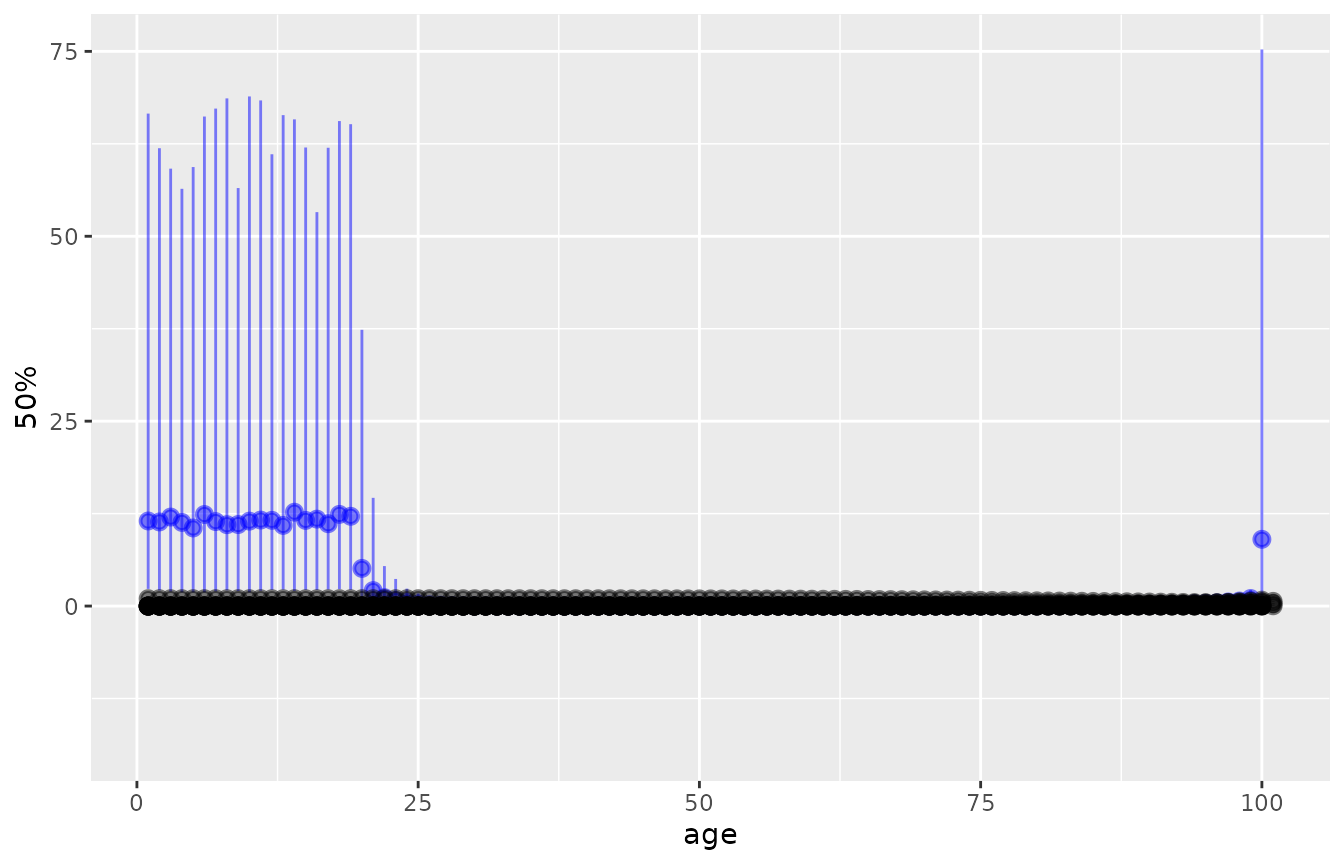
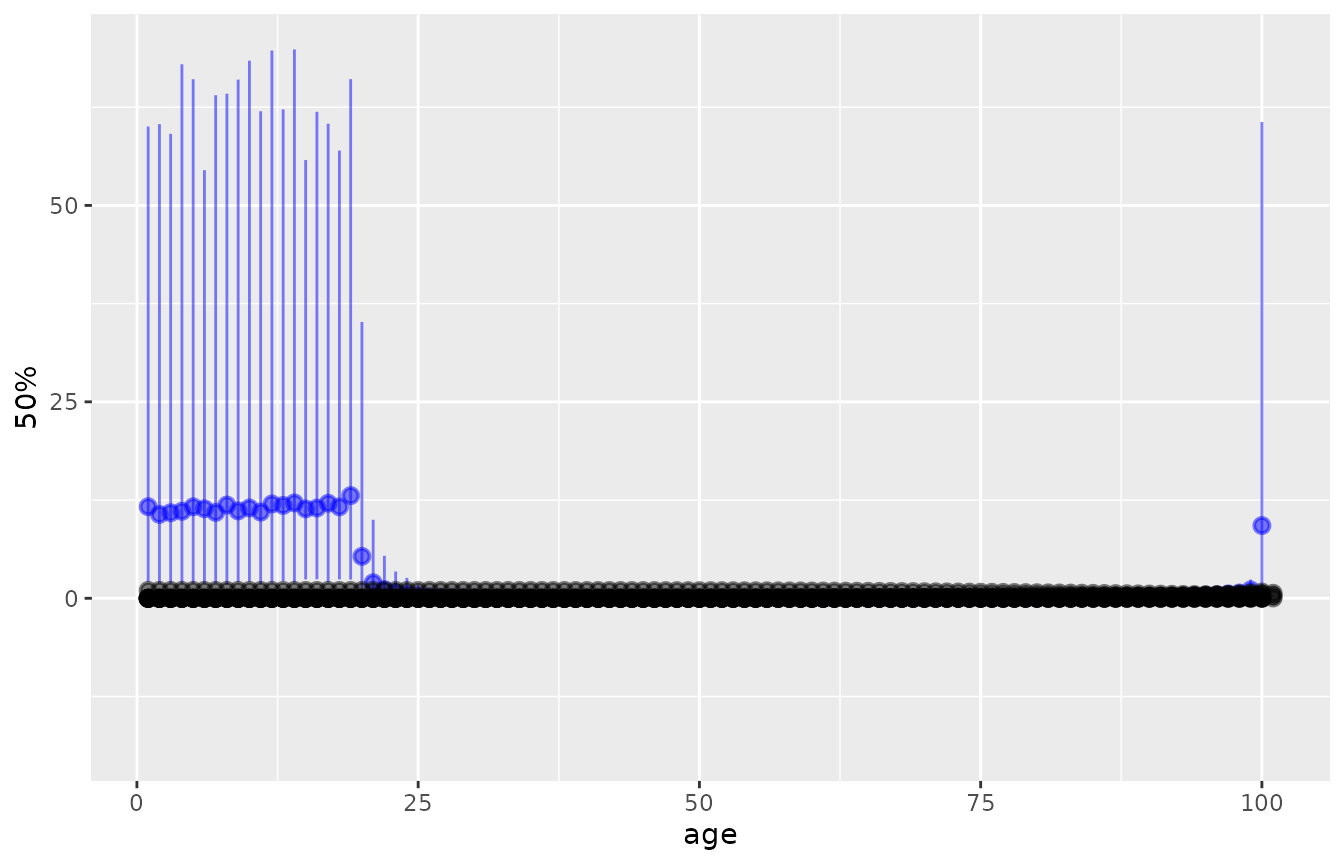
Built site for disbayes: 0.1@6cbedf2

diff --git a/articles/disbayes.html b/articles/disbayes.html
@@ -83,8 +83,6 @@
 
     
     
-<div class="sourceCode" id="cb1"><pre class="downlit sourceCode r">
-<code class="sourceCode R"><span class="fu">knitr</span><span class="fu">::</span><span class="va"><a href="https://rdrr.io/pkg/knitr/man/opts_chunk.html">opts_chunk</a></span><span class="op">$</span><span class="fu">set</span><span class="op">(</span>fig.width<span class="op">=</span><span class="fl">7</span><span class="op">)</span></code></pre></div>
 <p>This document illustrates how case fatality can be estimated given incidence and mortality, using Bayesian modelling.</p>
 <p>This also serves to illustrate a general approach for estimating quantities describing disease epidemiology, based on indirect / incomplete data or multiple data sources.</p>
 <p>The method is implemented in the R package <code>disbayes</code>, and could easily be adapted to novel situations.</p>
@@ -149,7 +147,7 @@
 <li><p><code>prev_num</code>,<code>prev_denom</code>: estimates of prevalence by age</p></li>
 </ul>
 <p>and we wish to estimate case fatality by age, given these inputs. A selection of rows from the full data frame are shown here. We select only the data from one area and gender (Bristol, male) for this illustration.</p>
-<div class="sourceCode" id="cb2"><pre class="downlit sourceCode r">
+<div class="sourceCode" id="cb1"><pre class="downlit sourceCode r">
 <code class="sourceCode R"><span class="kw"><a href="https://rdrr.io/r/base/library.html">library</a></span><span class="op">(</span><span class="va"><a href="https://github.com/chjackson/disbayes">disbayes</a></span><span class="op">)</span>
 <span class="kw"><a href="https://rdrr.io/r/base/library.html">library</a></span><span class="op">(</span><span class="va"><a href="https://dplyr.tidyverse.org">dplyr</a></span>,quietly <span class="op">=</span> <span class="cn">TRUE</span><span class="op">)</span>
 <span class="va">ihdbristol</span> <span class="op">&lt;-</span> <span class="va">ihdengland</span> <span class="op">%&gt;%</span> <span class="fu"><a href="https://dplyr.tidyverse.org/reference/filter.html">filter</a></span><span class="op">(</span><span class="va">area</span><span class="op">==</span><span class="st">"Bristol"</span>, <span class="va">gender</span><span class="op">==</span><span class="st">"Male"</span><span class="op">)</span>
@@ -171,7 +169,7 @@
 </ul>
 <p>The published estimates and uncertainty interval are then used to derive the implicit denominator and numerator, using the method described in the next subsection.</p>
 <p>Then secondly, estimates for five-year age groups were converted to one-year groups. Most simply this could be done by assuming the counts are equal for each year of age, but a more sophisticated method was used based on “temporal disaggregation” using one of the methods implemented by Sax and Steiner in the <code>tempdisagg</code> R package (<span class="citation">Sax and Steiner (2013)</span>). This ensures that the disaggregated counts vary smoothly with age, while preserving the aggregate totals. Thirdly, counts from smaller geographical areas were simply added up to obtain the corresponding counts for the larger areas (English city regions) required in this analysis.</p>
-<div class="sourceCode" id="cb4"><pre class="downlit sourceCode r">
+<div class="sourceCode" id="cb3"><pre class="downlit sourceCode r">
 <code class="sourceCode R"><span class="va">ihdbristol</span><span class="op">[</span><span class="va">ihdbristol</span><span class="op">$</span><span class="va">age</span> <span class="op">%in%</span> <span class="fl">50</span><span class="op">:</span><span class="fl">55</span>, <span class="op">]</span></code></pre></div>
 <pre><code>## # A tibble: 6 × 9
 ##     age gender area    inc_num inc_denom prev_num prev_denom mort_num mort_denom
@@ -187,7 +185,7 @@
 <h2 class="hasAnchor">
 <a href="#smoothly-disaggregating-data-from-age-groups-to-years-of-age" class="anchor"></a>Smoothly disaggregating data from age groups to years of age</h2>
 <p>As an aside, here we show how the temporal disaggregation procedure is done in R. We have a disease count outcome that is measured for 5-year age groups, as in the following data frame.</p>
-<div class="sourceCode" id="cb6"><pre class="downlit sourceCode r">
+<div class="sourceCode" id="cb5"><pre class="downlit sourceCode r">
 <code class="sourceCode R"><span class="va">dat</span> <span class="op">&lt;-</span> <span class="fu"><a href="https://rdrr.io/r/base/data.frame.html">data.frame</a></span><span class="op">(</span>agefrom<span class="op">=</span><span class="fu"><a href="https://rdrr.io/r/base/seq.html">seq</a></span><span class="op">(</span><span class="fl">0</span>,<span class="fl">20</span>,<span class="fl">5</span><span class="op">)</span>, ageto<span class="op">=</span><span class="fu"><a href="https://rdrr.io/r/base/seq.html">seq</a></span><span class="op">(</span><span class="fl">4</span>,<span class="fl">24</span>,<span class="fl">5</span><span class="op">)</span>,
                   measure<span class="op">=</span><span class="fu"><a href="https://rdrr.io/r/base/c.html">c</a></span><span class="op">(</span><span class="fl">15</span>,<span class="fl">20</span>,<span class="fl">24</span>,<span class="fl">35</span>,<span class="fl">29</span><span class="op">)</span><span class="op">)</span>
 <span class="va">dat</span></code></pre></div>
@@ -198,7 +196,7 @@
 ## 4      15    19      35
 ## 5      20    24      29</code></pre>
 <p>The following code shows how to produce a smoothly disaggregated version of this count, and compares the smooth disaggregation to a crude disaggregation where the 5-year counts are simply divided by 5 to estimate one-year counts. We can check that the smoothly-disaggregated measures add up to the original data that were provided for the 5-year age groups.</p>
-<div class="sourceCode" id="cb8"><pre class="downlit sourceCode r">
+<div class="sourceCode" id="cb7"><pre class="downlit sourceCode r">
 <code class="sourceCode R"><span class="kw">if</span> <span class="op">(</span><span class="fu"><a href="https://rdrr.io/r/base/ns-load.html">requireNamespace</a></span><span class="op">(</span><span class="st">"tempdisagg"</span><span class="op">)</span><span class="op">)</span> <span class="op">{</span> 
    <span class="va">disagg_crude</span> <span class="op">&lt;-</span> <span class="fu"><a href="https://rdrr.io/r/base/rep.html">rep</a></span><span class="op">(</span><span class="va">dat</span><span class="op">$</span><span class="va">measure</span><span class="op">/</span><span class="fl">5</span>, each<span class="op">=</span><span class="fl">5</span><span class="op">)</span>
    <span class="va">disagg_smooth</span> <span class="op">&lt;-</span> <span class="fu"><a href="https://rdrr.io/r/stats/predict.html">predict</a></span><span class="op">(</span><span class="fu">tempdisagg</span><span class="fu">::</span><span class="fu"><a href="https://rdrr.io/pkg/tempdisagg/man/td.html">td</a></span><span class="op">(</span><span class="va">dat</span><span class="op">$</span><span class="va">measure</span> <span class="op">~</span> <span class="fl">1</span>, to<span class="op">=</span><span class="fl">5</span>, method<span class="op">=</span><span class="st">"fast"</span><span class="op">)</span><span class="op">)</span>
@@ -278,7 +276,7 @@
 <h2 class="hasAnchor">
 <a href="#running-disbayes-optimisation-method" class="anchor"></a>Running <code>disbayes</code>: optimisation method</h2>
 <p>The following call to the <code>disbayes</code> function is then made to fit the model to the <code>ihdbristol</code> data. The argument <code>eqage=40</code> defines an assumption that case fatality is constant for all ages below 40.</p>
-<div class="sourceCode" id="cb11"><pre class="downlit sourceCode r">
+<div class="sourceCode" id="cb10"><pre class="downlit sourceCode r">
 <code class="sourceCode R"><span class="va">dbres</span> <span class="op">&lt;-</span> <span class="fu"><a href="../reference/disbayes.html">disbayes</a></span><span class="op">(</span>dat <span class="op">=</span> <span class="va">ihdbristol</span>, age <span class="op">=</span> <span class="st">"age"</span>,
                  inc_num <span class="op">=</span> <span class="st">"inc_num"</span>, inc_denom <span class="op">=</span> <span class="st">"inc_denom"</span>, 
                  prev_num <span class="op">=</span> <span class="st">"prev_num"</span>, prev_denom <span class="op">=</span> <span class="st">"prev_denom"</span>,
@@ -286,7 +284,7 @@
                  inc_model<span class="op">=</span><span class="st">"indep"</span>,
                  eqage <span class="op">=</span> <span class="fl">40</span><span class="op">)</span></code></pre></div>
 <p>For comparison, we also fit an “unsmoothed” version of this model where the age-specific case fatality rates have independent priors, rather than being related through a spline function.</p>
-<div class="sourceCode" id="cb12"><pre class="downlit sourceCode r">
+<div class="sourceCode" id="cb11"><pre class="downlit sourceCode r">
 <code class="sourceCode R"><span class="va">dbresu</span> <span class="op">&lt;-</span> <span class="fu"><a href="../reference/disbayes.html">disbayes</a></span><span class="op">(</span>dat <span class="op">=</span> <span class="va">ihdbristol</span>, age <span class="op">=</span> <span class="st">"age"</span>,
                  inc_num <span class="op">=</span> <span class="st">"inc_num"</span>, inc_denom <span class="op">=</span> <span class="st">"inc_denom"</span>, 
                  prev_num <span class="op">=</span> <span class="st">"prev_num"</span>, prev_denom <span class="op">=</span> <span class="st">"prev_denom"</span>,
@@ -299,7 +297,7 @@
 <h2 class="hasAnchor">
 <a href="#running-disbayes-mcmc-method" class="anchor"></a>Running <code>disbayes</code>: MCMC method</h2>
 <p>If more accurate credible intervals are desired, then MCMC sampling can be used instead by setting <code>method="mcmc"</code>, as follows. This is more computationally intensive, typically taking a few minutes per fit.</p>
-<div class="sourceCode" id="cb13"><pre class="downlit sourceCode r">
+<div class="sourceCode" id="cb12"><pre class="downlit sourceCode r">
 <code class="sourceCode R"><span class="fu"><a href="https://rdrr.io/r/base/options.html">options</a></span><span class="op">(</span>mc.cores <span class="op">=</span> <span class="fu">parallel</span><span class="fu">::</span><span class="fu"><a href="https://rdrr.io/r/parallel/detectCores.html">detectCores</a></span><span class="op">(</span><span class="op">)</span><span class="op">)</span>
 <span class="va">dbresm</span> <span class="op">&lt;-</span> <span class="fu"><a href="../reference/disbayes.html">disbayes</a></span><span class="op">(</span>dat <span class="op">=</span> <span class="va">ihdbristol</span>, age <span class="op">=</span> <span class="st">"age"</span>,
                  inc_num <span class="op">=</span> <span class="st">"inc_num"</span>, inc_denom <span class="op">=</span> <span class="st">"inc_denom"</span>, 
@@ -309,7 +307,7 @@
                  eqage <span class="op">=</span> <span class="fl">40</span><span class="op">)</span></code></pre></div>
 <p>The sampling by <code>rstan</code> can be controlled, e.g. by setting the number of chains to run (perhaps on parallel cores) and the number of iterations - see <code><a href="../reference/disbayes.html">help(disbayes)</a></code> and the Stan documentation for full details. The number of iterations <code>iter</code> should be high enough that the results are not affected by Monte Carlo error.</p>
 <p>After using MCMC, we should check that the sampler has converged, by examining the “trace plot” of the simulation progress for selected parameters. The simulated chains should mix together and look like white noise. Also if the <code>disbayes</code> call resulted in many reports of “divergent transitions”, then the chains are unlikely to have converged to a valid posterior. If convergence hasn’t occurred, then the model probably needs to be simplified (e.g. by increasing <code>eqage</code>), or the data are insufficient.</p>
-<div class="sourceCode" id="cb14"><pre class="downlit sourceCode r">
+<div class="sourceCode" id="cb13"><pre class="downlit sourceCode r">
 <code class="sourceCode R"><span class="fu">rstan</span><span class="fu">::</span><span class="fu"><a href="https://mc-stan.org/rstan/reference/stanfit-method-traceplot.html">traceplot</a></span><span class="op">(</span><span class="va">dbres</span><span class="op">$</span><span class="va">fit</span>, pars<span class="op">=</span><span class="fu"><a href="https://rdrr.io/r/base/paste.html">paste0</a></span><span class="op">(</span><span class="st">"cf["</span>, <span class="fl">60</span><span class="op">:</span><span class="fl">65</span>, <span class="st">"]"</span><span class="op">)</span><span class="op">)</span></code></pre></div>
 </div>
 </div>
@@ -318,28 +316,28 @@
 <a href="#ihd-example-results" class="anchor"></a>IHD example: Results</h1>
 <p>The <code>disbayes</code> function returns a list, with components that depend on what estimation method was used. For <code>method="opt"</code> this list has a component <code>fit</code> containing the estimates and draws from the posterior approximation, as returned by the function <code>optimizing</code> in the <code>rstan</code> package. For <code>method="mcmc"</code>, this list has a component <code>fit</code> which is an object in the <code>stanfit</code> format defined by the <code>rstan</code> R interface to Stan. See <code><a href="../reference/disbayes.html">help(disbayes)</a></code> for further details of the returned object.</p>
 <p>Whatever estimation method was used, the parameter estimates can be extracted from a disbayes object using the <code>tidy</code> method. The point estimates (modes or posterior medians) 95% credible intervals and other quantiles for all parameters of interest are arranged in a data frame, with the variables indicated in the variable called <code>var</code>. Variables include <code>inc</code> (incidence), <code>cf</code> (case fatality), <code>mort</code> (mortality), <code>prev</code> (prevalence), each indexed by year of age given in the <code>age</code> variable.</p>
-<div class="sourceCode" id="cb15"><pre class="downlit sourceCode r">
+<div class="sourceCode" id="cb14"><pre class="downlit sourceCode r">
 <code class="sourceCode R"><span class="va">summ</span> <span class="op">&lt;-</span> <span class="fu"><a href="https://generics.r-lib.org/reference/tidy.html">tidy</a></span><span class="op">(</span><span class="va">dbres</span><span class="op">)</span> </code></pre></div>
 <p>To extract results for a specific variable and model, it is convenient to use standard tidyverse functions, e.g. to get the median and interquartile range of case fatality for people aged between 60 and 65:</p>
-<div class="sourceCode" id="cb16"><pre class="downlit sourceCode r">
+<div class="sourceCode" id="cb15"><pre class="downlit sourceCode r">
 <code class="sourceCode R"><span class="kw"><a href="https://rdrr.io/r/base/library.html">library</a></span><span class="op">(</span><span class="va"><a href="https://dplyr.tidyverse.org">dplyr</a></span>,quietly<span class="op">=</span><span class="cn">TRUE</span><span class="op">)</span>
 <span class="va">summ</span> <span class="op">%&gt;%</span> 
   <span class="fu"><a href="https://dplyr.tidyverse.org/reference/filter.html">filter</a></span><span class="op">(</span><span class="va">var</span><span class="op">==</span><span class="st">"cf"</span>, <span class="fu"><a href="https://dplyr.tidyverse.org/reference/between.html">between</a></span><span class="op">(</span><span class="va">age</span>,<span class="fl">60</span>,<span class="fl">65</span><span class="op">)</span><span class="op">)</span> <span class="op">%&gt;%</span>
   <span class="fu"><a href="https://dplyr.tidyverse.org/reference/select.html">select</a></span><span class="op">(</span><span class="va">age</span>, <span class="va">`25%`</span>, <span class="va">`50%`</span>, <span class="va">`75%`</span><span class="op">)</span></code></pre></div>
 <pre><code>##   age        25%        50%        75%
-## 1  60 0.01544119 0.01660143 0.01779604
-## 2  61 0.01572050 0.01680049 0.01797889
-## 3  62 0.01598498 0.01697820 0.01815839
-## 4  63 0.01616237 0.01720882 0.01837684
-## 5  64 0.01645707 0.01746395 0.01859512
-## 6  65 0.01676725 0.01776433 0.01882658</code></pre>
+## 1  60 0.01552909 0.01663680 0.01780419
+## 2  61 0.01573263 0.01684570 0.01796338
+## 3  62 0.01599033 0.01710698 0.01816131
+## 4  63 0.01626516 0.01730529 0.01836056
+## 5  64 0.01651485 0.01753174 0.01860693
+## 6  65 0.01678806 0.01780160 0.01888565</code></pre>
 <p>The default <code>plot</code> method for objects returned by <code>disbayes</code> plots the posterior summaries for case fatality, allowing a quick check of the model results. Or do <code><a href="https://rdrr.io/r/graphics/plot.default.html">plot(..., variable="inc")</a></code> for incidence. The function returns a <code>ggplot2</code> object that can be modified with <code>ggplot2</code> functions, e.g. to add axis labels.</p>
-<div class="sourceCode" id="cb18"><pre class="downlit sourceCode r">
+<div class="sourceCode" id="cb17"><pre class="downlit sourceCode r">
 <code class="sourceCode R"><span class="kw"><a href="https://rdrr.io/r/base/library.html">library</a></span><span class="op">(</span><span class="va"><a href="https://ggplot2.tidyverse.org">ggplot2</a></span><span class="op">)</span>
 <span class="fu"><a href="https://rdrr.io/r/graphics/plot.default.html">plot</a></span><span class="op">(</span><span class="va">dbres</span><span class="op">)</span> <span class="op">+</span>  <span class="fu"><a href="https://ggplot2.tidyverse.org/reference/labs.html">ylab</a></span><span class="op">(</span><span class="st">"Case fatality"</span><span class="op">)</span> <span class="op">+</span> <span class="fu"><a href="https://ggplot2.tidyverse.org/reference/labs.html">xlab</a></span><span class="op">(</span><span class="st">"Age"</span><span class="op">)</span> </code></pre></div>
 <p><img src="disbayes_files/figure-html/unnamed-chunk-12-1.png" width="672"></p>
 <p>More flexible plots can be built by using <code>ggplot</code> directly on the tidied estimates. The following shows the estimates of case fatality from the unsmoothed model in blue, with the estimates from the smoothed model superimposed in black.</p>
-<div class="sourceCode" id="cb19"><pre class="downlit sourceCode r">
+<div class="sourceCode" id="cb18"><pre class="downlit sourceCode r">
 <code class="sourceCode R"><span class="va">summs</span> <span class="op">&lt;-</span> <span class="va">summ</span> <span class="op">%&gt;%</span> <span class="fu"><a href="https://dplyr.tidyverse.org/reference/filter.html">filter</a></span><span class="op">(</span><span class="va">var</span><span class="op">==</span><span class="st">"cf"</span><span class="op">)</span>
 <span class="va">summu</span> <span class="op">&lt;-</span> <span class="fu"><a href="https://generics.r-lib.org/reference/tidy.html">tidy</a></span><span class="op">(</span><span class="va">dbresu</span><span class="op">)</span> <span class="op">%&gt;%</span> <span class="fu"><a href="https://dplyr.tidyverse.org/reference/filter.html">filter</a></span><span class="op">(</span><span class="va">var</span><span class="op">==</span><span class="st">"cf"</span><span class="op">)</span>
 <span class="fu"><a href="https://ggplot2.tidyverse.org/reference/ggplot.html">ggplot</a></span><span class="op">(</span><span class="va">summu</span>, <span class="fu"><a href="https://ggplot2.tidyverse.org/reference/aes.html">aes</a></span><span class="op">(</span>x<span class="op">=</span><span class="va">age</span><span class="op">)</span><span class="op">)</span> <span class="op">+</span> 

diff --git a/index.html b/index.html
@@ -98,7 +98,7 @@
 <li><p>models with assumed trends in disease incidence or case fatality through calendar time, where trends can be age-specific (non-hierarchical models only)</p></li>
 </ul>
 </li>
-<li><p>It is inspired by the <a href="https://www.epigear.com/index_files/dismod_ii.html">DisMod II</a>, and <a href="https://github.com/ihmeuw/dismod_mr">DisMod-MR</a> packages used for the Global Burden of Disease studies. It follows the formal, fully Bayesian framework described in the <a href="http://www.combinedacademic.co.uk/integrated-meta-regression-framework-for-descriptive-epidemiology">book by Flaxman</a> and modified and extended in the paper <em>Bayesian multi-state modelling of incomplete chronic disease epidemiology data for health impact simulation models</em> (Jackson et al., in progress).</p></li>
+<li><p>It is inspired by the <a href="https://www.epigear.com/index_files/dismod_ii.html">DisMod II</a> and <a href="https://github.com/ihmeuw/dismod_mr">DisMod-MR</a> packages used for the Global Burden of Disease studies. It follows the formal, fully Bayesian framework described in the <a href="https://uwapress.uw.edu/book/9780295991849/an-integrative-metaregression-framework-for-descriptive-epidemiology/">book by Flaxman et al.</a> and modified and extended in the paper <em>Bayesian multi-state modelling of incomplete chronic disease epidemiology data for health impact simulation models</em> (Jackson et al., in progress).</p></li>
 <li><p>Source code is at the <a href="https://github.com/chjackson/disbayes">GitHub repository</a></p></li>
 </ul>
 <div id="installation" class="section level2">
